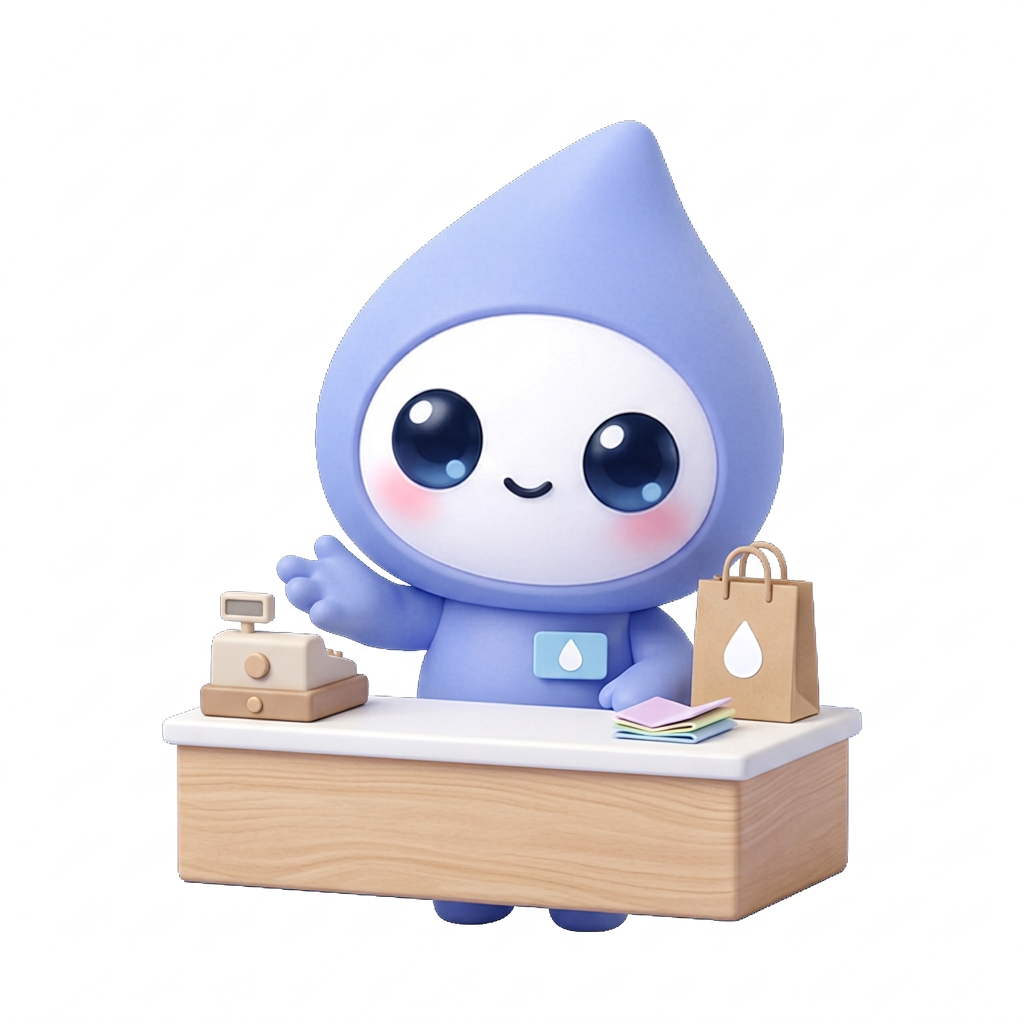
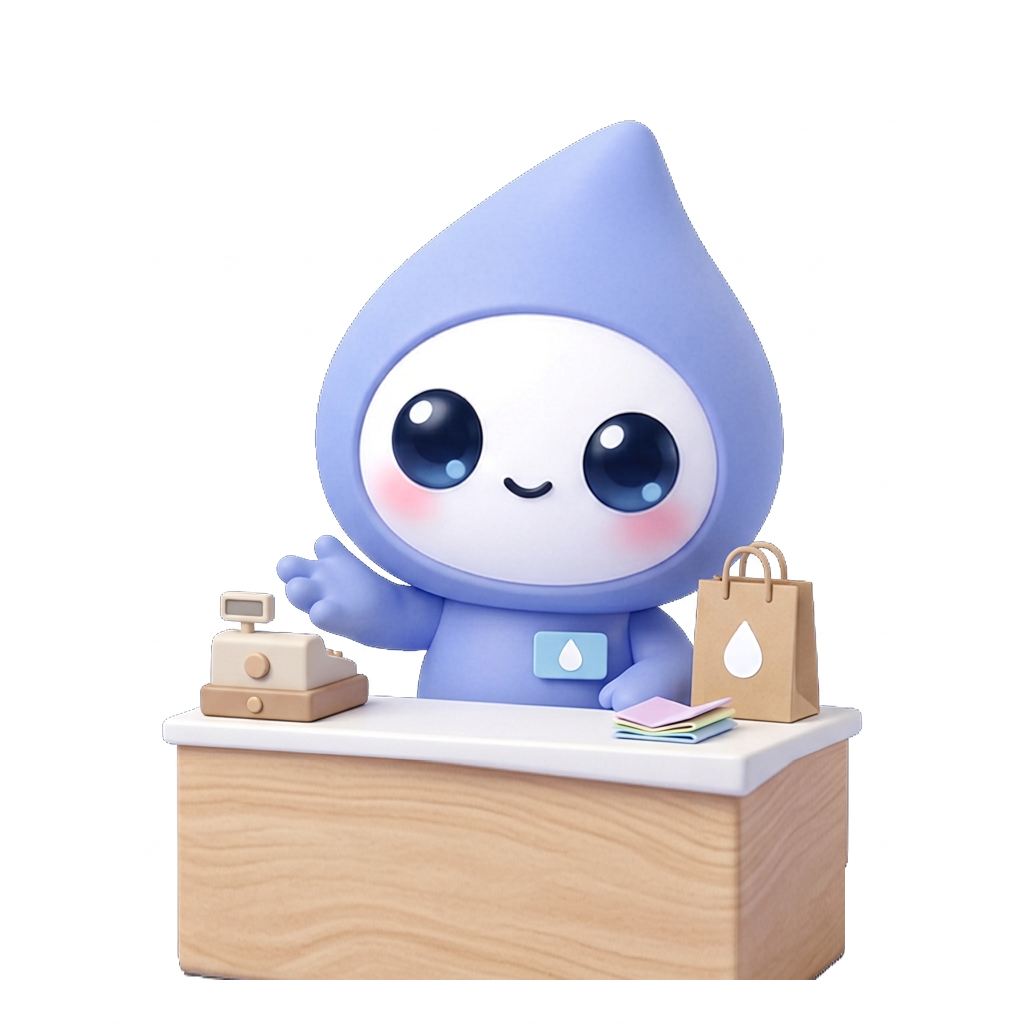
merch v11: base descriptions, cashier counter taller, mascot says «Ну-ка, примерь!»
- content v11 (app + bot seed): cap — пятипанелька хлопок, washed-голубой, белая капля / :(: ; workbook — рабочая тетрадь для тренировки КПТ навыков от Дибитишки, А5 пружина; mascot_lines.merch — «Ну-ка, примерь!» first
- bot/src/app.js: migration v11 lifts merch notes + ensures merch phrase on top
- app/js/app.js screenMerch: cashier now says fixed «Ну-ка, примерь!» (v44), counter +80px wood stretch hides feet and removes black seam, sync bot/assets/mascot/cashier.png and _gen
- cap.webp already clean (fix-merch idempotent) — transparent without checker; notebook.webp re-rendered via fix-merch (logo + ДПТ дневник)
- scripts/dom-smoke.mjs + tribute-check.mjs: expect base notes and v11, check bubble contains fixed phrase

Changed region(s): [[0.1562, 0.8438, 0.8438, 0.9688], [0.4062, 0.7188, 0.75, 0.8125]]

diff --git a/bot/src/app.js b/bot/src/app.js
@@ -163,6 +163,33 @@ function seedContent() {
         save();
       } catch (e) { console.warn('[merch] copy update failed'); }
     }
+    /* v11: базовые описания мерча и фиксированная реплика за прилавком.
+       Кепка — хлопок 5-панель, голубая washed, белая капля / :(: ;
+       тетрадь — ДПТ дневник для тренировки навыков от Дибитишки.
+       Реплика «Ну-ка, примерь!» теперь ставится прямо в экране мерча (app/js/app.js),
+       а здесь — доливаем её в mascot_lines, чтобы старые базы не потеряли фразу. */
+    if (Number(db.content.version || 0) < 11) {
+      try {
+        const seed = JSON.parse(fs.readFileSync(path.join(__dirname, '..', 'seed', 'content.json'), 'utf8'));
+        (seed.merch || []).forEach(item => {
+          const cur = (db.content.merch || []).find(m => m.id === item.id);
+          if (cur) cur.note = item.note;
+        });
+        const lines = db.content.meta?.mascot_lines;
+        if (lines) {
+          const seedLines = seed.meta?.mascot_lines?.merch || [];
+          lines.merch = Array.isArray(lines.merch) ? lines.merch : [];
+          // гарантируем, что фирменная реплика есть и стоит первой
+          const fixed = 'Ну-ка, примерь!';
+          if (!lines.merch.includes(fixed)) lines.merch.unshift(fixed);
+          else { lines.merch = [fixed, ...lines.merch.filter(t => t !== fixed)]; }
+          seedLines.forEach((t) => { if (!lines.merch.includes(t)) lines.merch.push(t); });
+        }
+        db.content.version = 11;
+        db.content.updated = '2026-09-16';
+        save();
+      } catch (e) { console.warn('[merch] v11 update failed'); }
+    }
     return db.content;
   }
   const candidates = [

diff --git a/app/js/app.js b/app/js/app.js
@@ -2090,10 +2090,10 @@ function screenMerch() {
     el('button', { class: 'back', onclick: () => go('workbook') }, icon('back'), 'Назад'),
     el('h2', {}, 'Мерч')
   ));
-  /* v43: на экране мерча Дибитишка стоит за прилавком — он и есть продавец.
-     Поза «у зеркала в кепке» (mirror.png) остаётся в паке: она про конкретную
-     кепку, а прилавок — про весь магазин. */
-  scr.append(mascot('cashier', mline('merch')));
+  /* v44: на экране мерча Дибитишка стоит за прилавком — продавец говорит
+     «Ну-ка, примерь!» и показывает товар. Поза «у зеркала в кепке» (mirror.png)
+     остаётся в паке, а прилавок теперь выше — ноги маскота под ним не видно. */
+  scr.append(mascot('cashier', 'Ну-ка, примерь!'));
   const grid = el('div', { class: 'mgrid' });
   CONTENT.merch.forEach(m => {
     const card = el('div', { class: 'mcard' });
